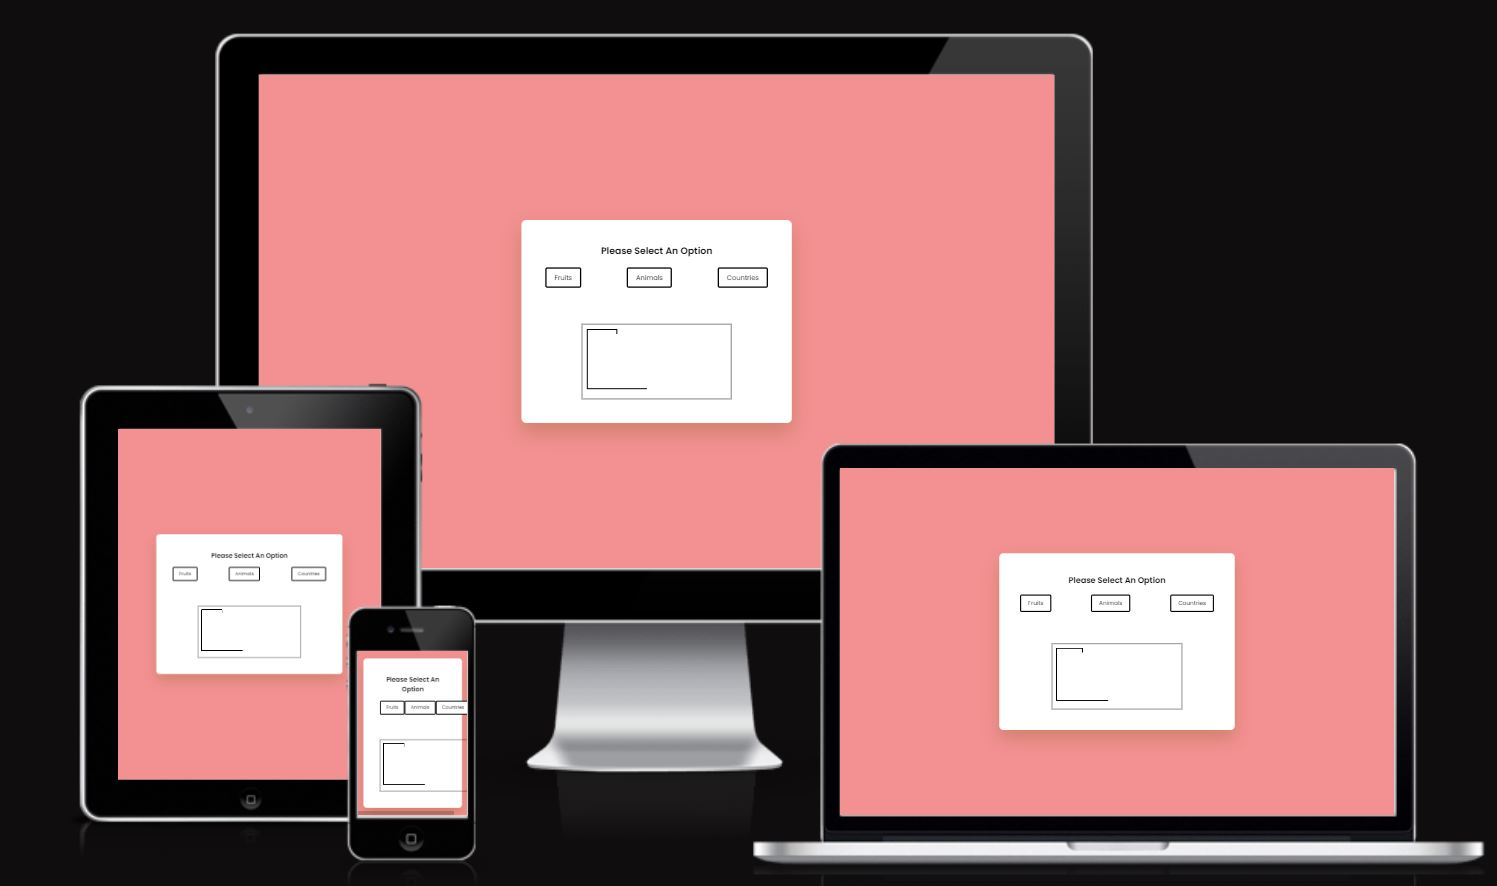
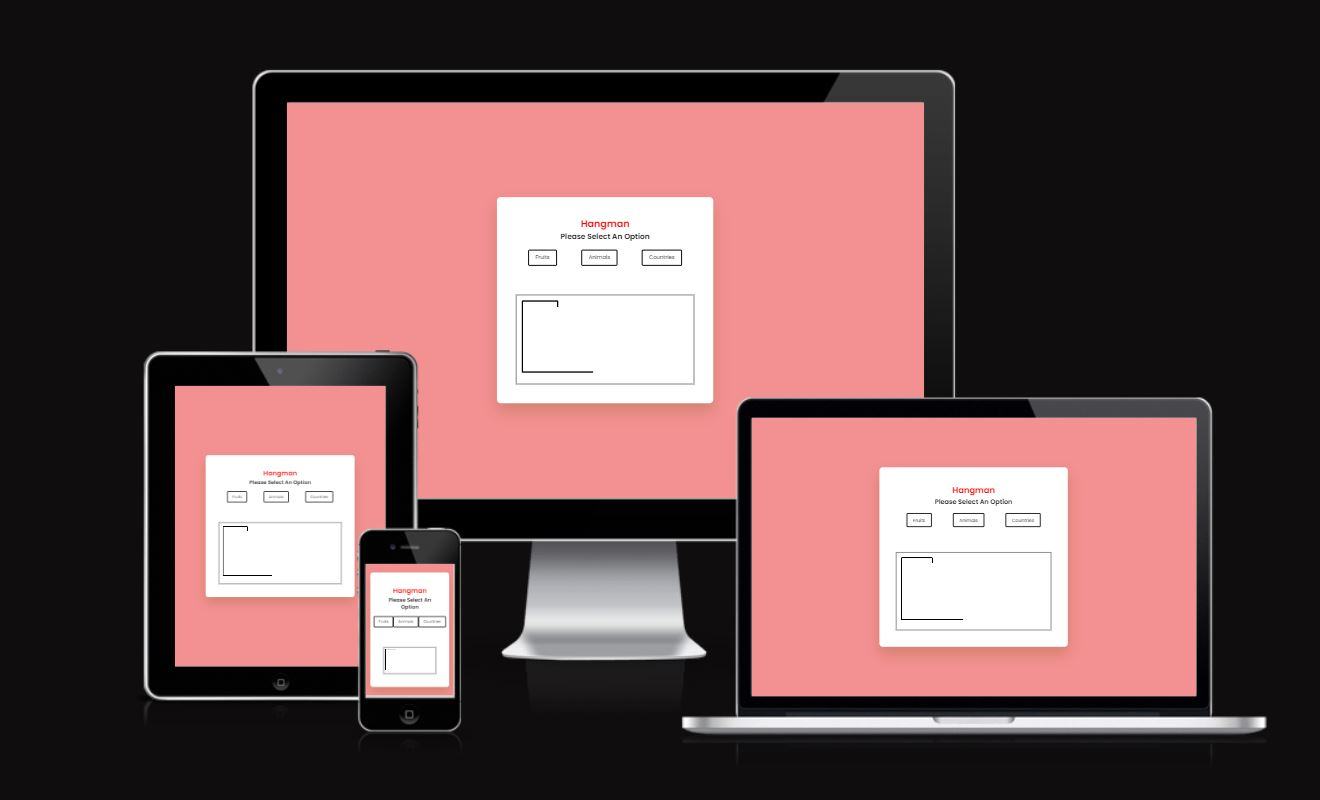
Add am I responsiveness image in docs

Changed region(s): [[0.0311, 0.0312, 0.9939, 1.0]]

diff --git a/README.md b/README.md
@@ -162,14 +162,12 @@ Issues discussed in my project with my code institute colleagues.
 2. The incorrect guesses were displaying above the game over display for when the user uses all tries and is hanged.
   This was resolved by simply adding an if statement so that when TRIES = 0 this is not displayed to the game over screen.
 
-### Unfixed Bugs
-
-1. On Mobile S -320px , responsiveness is not accurate.
+3. On mobile device responsiveness is not good so as per suggestion by my mentor I use justify-content space-around and give canvas width 100% and now it is working on mobiles very nicely.
 
 ### Manual Testing
 
 #### responsiveness
-The website is adapted to be seen on different screen sizes. The responsiveness of the website was first tested by chrome developer tools. Different breakpoints where used to view the website. Next to this the website was viewed on different devices: laptop, tablet.
+The website is adapted to be seen on different screen sizes. The responsiveness of the website was first tested by chrome developer tools. Different breakpoints where used to view the website. Next to this the website was viewed on different devices: laptop, tablet and mobile.
 
 - - -
 #### Validator Testing
